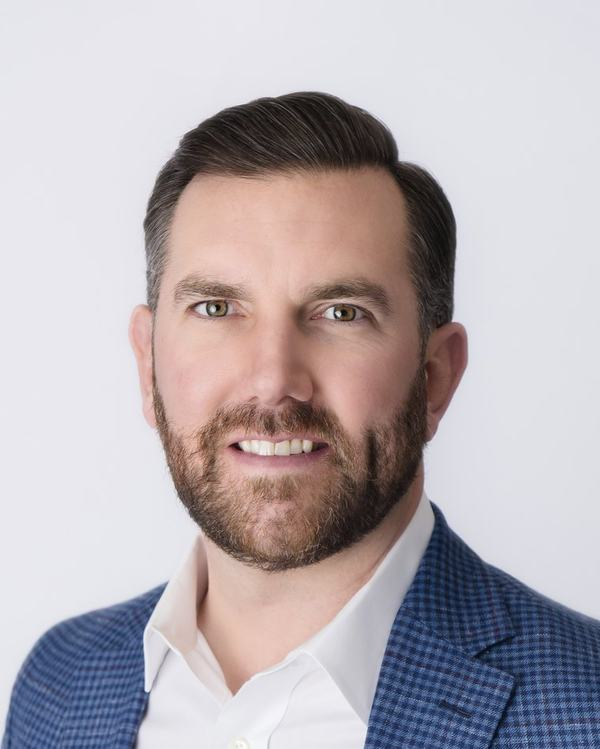
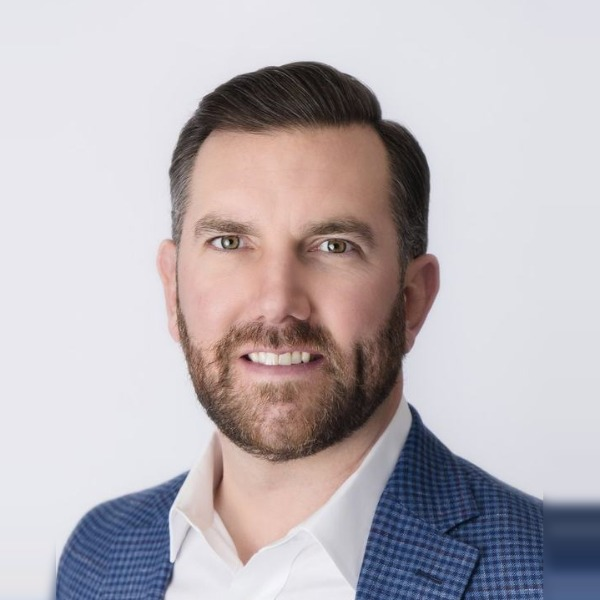
Add files via upload

Changed region(s): [[0.0, 0.09, 1.0, 1.0], [0.45, 0.84, 0.54, 0.9], [0.42, 0.99, 0.45, 1.0]]

diff --git a/index.html b/index.html
@@ -451,7 +451,7 @@
       </div>
 
       <div class="member reveal" data-rev>
-        <div class="m-photo"><img class="off-right" src="/images/site/41e5728c3c.jpg" alt="Eric Lenington"></div>
+        <div class="m-photo"><img src="/images/site/41e5728c3c.jpg" alt="Eric Lenington"></div>
         <div class="m-body">
           <div class="m-name">Eric Lenington</div>
           <div class="m-role">Director of Media</div>
